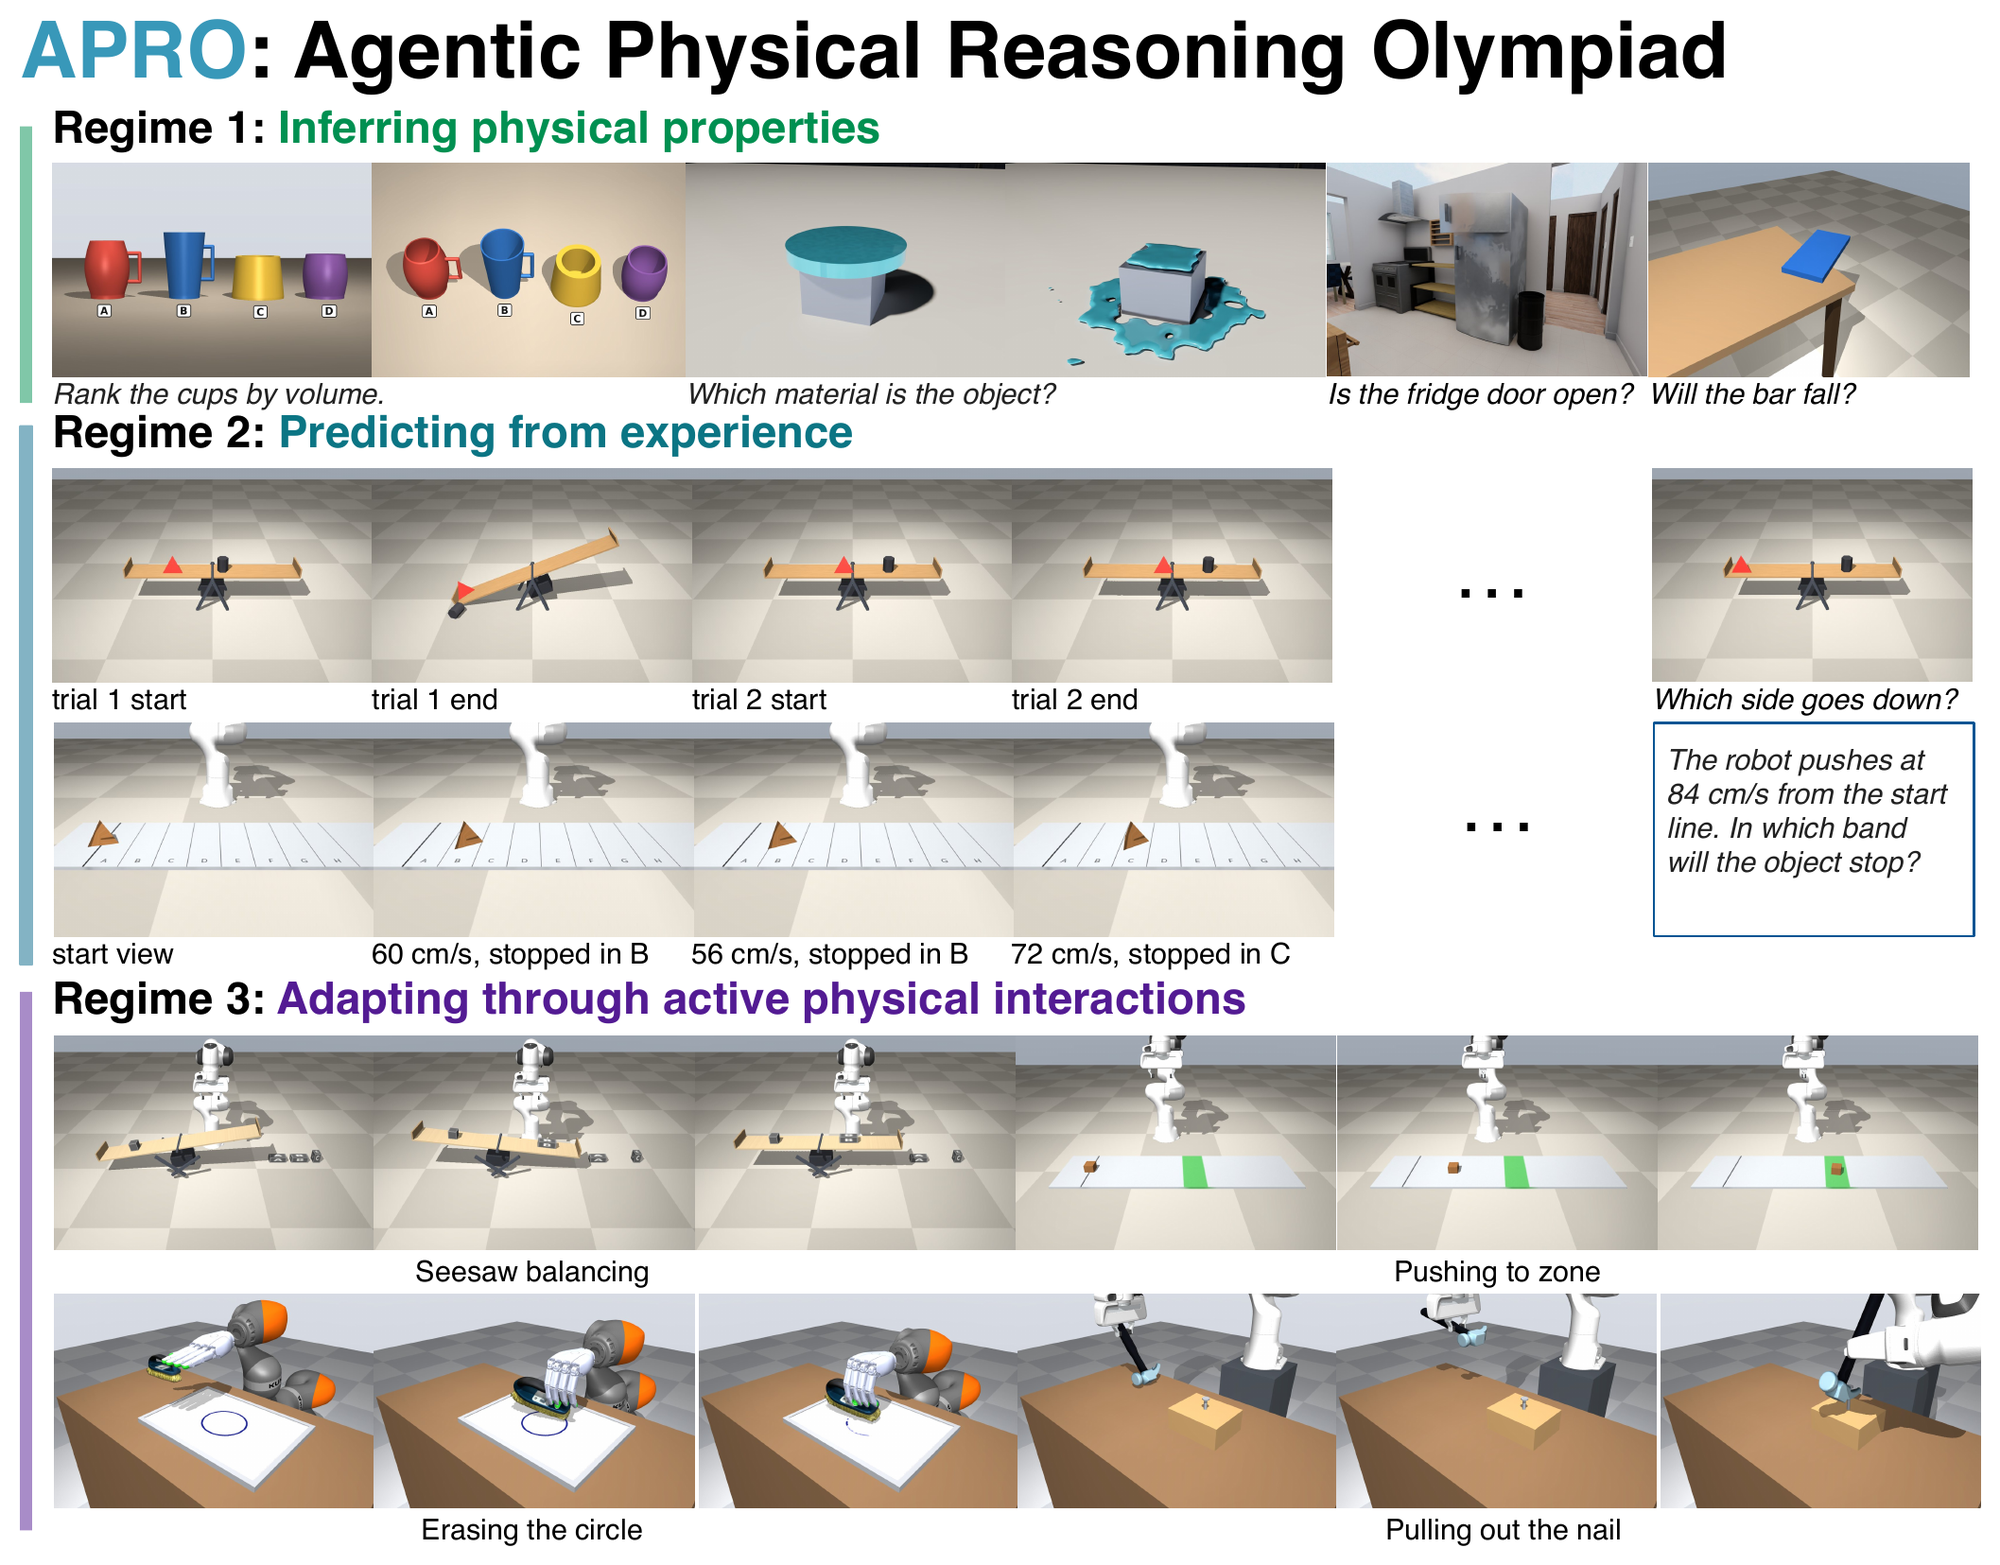
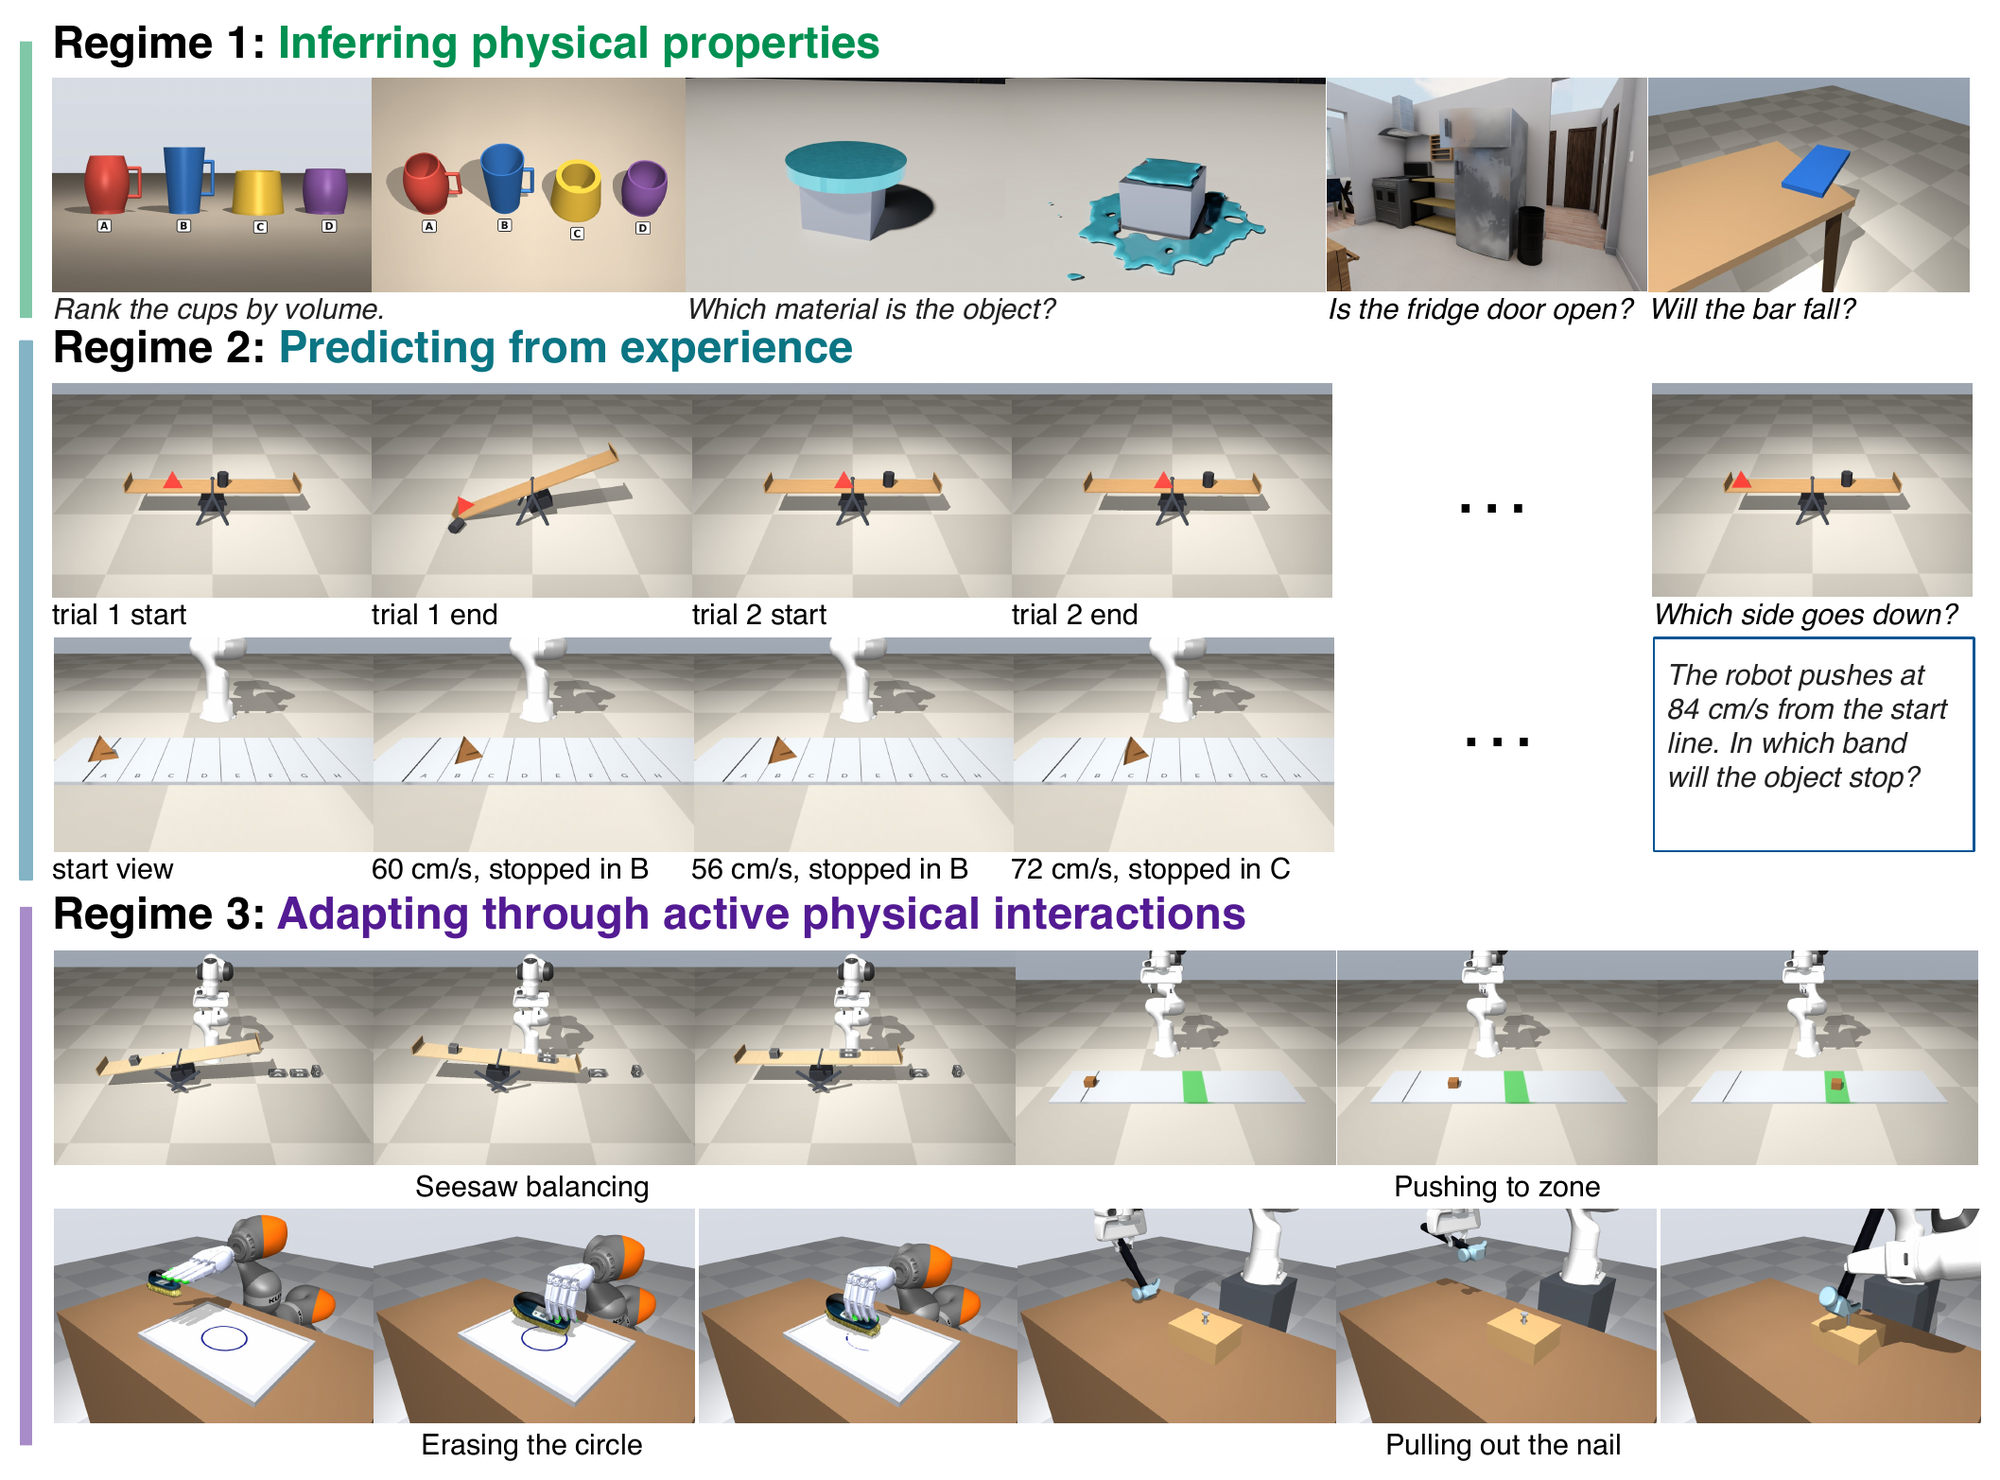
APRO post: drop title from dataset figure, move oracle rationale under Oracle settings

diff --git a/_posts/2026-11-23-apro.md b/_posts/2026-11-23-apro.md
@@ -34,15 +34,15 @@ images:
 
 ## Start of Agentic Robotics?
 
-My research has always played with Vision-Language Models (VLMs), and as I begin my PhD, I've been excited to see how much progress they have made. When I first met them, they were mostly used as visual assistants: understanding images, doing VQA tasks, or generating captions.
+My research has always played with Vision-Language Models (VLMs), when I first met them, they were just a simple "chat bot" as visual assistants: I would use to test image captioning, VQA skills or simply test if they understand images. And now begining my PhD, I'm very excited to see how much progress they have been made, where we have to call them real agents.
 
-Now, I see the advance of VLMs, where they can reason about physical environments, plan actions, and even execute them through robotics control. I've been seeing some exciting demos on Twitter that shows this progress. This excites me showing a new direction in robotics, where VLMs can serve as both high level planners and low-level executors.
+VLMs can now reason about physical environments, plan actions, and even execute them through robotics control. I've been recently seeing very exciting demos on Twitter that shows this progress. This excites me showing a new direction in robotics, where VLMs can serve as both high-level planners and low-level executors.
 
-But despite this excitement, there hasnt been studies yet that diagnostically studies on how useful VLMs are in controlling robots. Can these models infer physical properties from what they see? Can they learn from what happened in earlier attempts? And can they act, watch the result, and fix their actions?
+But despite this excitement, I havent met studies yet that diagnostically studies on how useful VLMs are in controlling robots. So I wanted to ask this question starting my first project in Berkeley: <it>Can these models infer physical properties from what they see? Can they learn from what happened in earlier attempts? And can they act, watch the result, and fix their actions?</it>
 
 ## Agentic Physical Reasoning
 
-In closed loop settings, VLMs choose and adjust actions based on feedback. Physical reasoning plays an important role here, where physical properties of the scene often determines the outcome of actions.
+In closed loop settings, VLMs choose and adjust actions based on feedback. In the physical world world, physical reasoning plays an important role here, where physical properties of the scene often determines the outcome of actions.
 
 Look at the two videos below, where the two robots are given the same task "Use a hammer to pull out a nail". Both initially grasp the hammer in a way that causes it to tilt, but the outcome differs on how they refine their answers. The success case shows that the model observes the instability and adjusts its grasp closer to the hammer head. The failure case on the other hand continues with the unstable grasp and eventually fails. We can obviously get the fact that understanding the physical world requires not only observation, but also actively acquiring physical information and using it to guide our actions.
 
@@ -58,18 +58,49 @@ Look at the two videos below, where the two robots are given the same task "Use 
 </div>
 <div class="caption">"Pull the nail out with a hammer"</div>
 
-To study this, with my team, we carefully created three evaluation regimes to test this, generated data in simulation for a controlled setting, and conducted a fine-grained evaluation and analysis to disentagle how useful VLMs are in controling robots as agents in the physical world.
+To study this, we carefully created (1) three evaluation regimes to test this,(2) generated data in simulation for a controlled setting (APRO dataset), and (3)conducted a fine-grained evaluation and analysis (Oracle settings) to disentagle how useful VLMs are in controling robots as agents in the physical world.
 
-### Measuring agentic phsyical reasoning under three evaluation regimes
+## Measuring agentic phsyical reasoning under three evaluation regimes
 
 <a href="{{ '/assets/img/blog/apro/fig1_regimes.svg' | relative_url }}" target="_blank" title="Open full size"><img class="regime-fig" src="{{ '/assets/img/blog/apro/fig1_regimes.svg' | relative_url }}" alt="Three evaluation regimes of APRO"></a>
 <div class="caption">Three Evaluation Regimes for APRO.</div>
 
-### APRO Dataset
-APRO(Agentic Physical Reasoning Olympiad) is a simulation grounded dataset organized under the three evaluation regimes mentioned above. 
+The simplest way to understand physical perception to action, we question
+- R1: Can the model understand and predict physics?
+- R2: Can the model learn from previous observations?
+- R3: Can the model actively interact with the physical world and accomplish a task?
+The three regimes represent increasing levels of interaction and agency.
+
+## APRO Dataset
+We generated a dataset, APRO(Agentic Physical Reasoning Olympiad), simulator grounded, we organized the tasks under the three evaluation regimes mentioned above. 
 
 <a href="{{ '/assets/img/blog/apro/dataset.png' | relative_url }}" target="_blank" title="Open full size"><img class="dataset-fig" src="{{ '/assets/img/blog/apro/dataset.png' | relative_url }}" alt="Examples of APRO tasks in the three regimes"></a>
 <div class="caption">Examples of APRO dataset. APRO contains 480 evaluation items across 11 tasks.</div>
+
+### Oracle settings
+
+Why do models fail? Lack of information they got from the world? or is it because they cannot reason with it? 
+<div class="cards">
+  <div class="card-a">
+    <h4><i class="fa-solid fa-eye-slash"></i>Missing information</h4>
+    The property can't be seen or inferred from the image. Will providing them the true information fix this problem?
+  </div>
+  <div class="card-a">
+    <h4><i class="fa-solid fa-brain"></i>Limited reasoning</h4>
+    When you have the true value to solve a high level task, can you use that information during reasoning to improve?
+  </div>
+</div>
+
+<details class="setup">
+  <summary>In the real world we dont get parameter values?: We have sensors, we get to know why they fail</summary>
+  Consider a robot using a Sharpa hand with tactile sensors to manipulate an object. As the robot touches and grasps the object, its sensors continuously provide information about contact, force, pressure. Given these parameter signals from the sensors, can robots use this information well to manipulate correctly during action?
+  
+  Here is one more example: In autonomous driving, when a car approaches another vehicle, its sensors provide information such as the distance to the front car, the speed of both vehicles, and their relative velocity. These physical values are critical for deciding whether the car should accelerate, slow down, or maintain its speed. As the environment changes, the vehicle continuously receives updated information and adjusts its actions accordingly.
+</details>
+
+
+To tell these apart, we run an **oracle analysis**: we give the model the true values from the simulator, one group at a time, and check what changes.
+
 
 <details class="setup">
   <summary>APRO Dataset task details</summary>
@@ -91,11 +122,11 @@ APRO(Agentic Physical Reasoning Olympiad) is a simulation grounded dataset organ
   </table>
 </details>
 
-With APRO, we evaluated 7 models (4 properity models, and 3 open-weight models).
+With APRO, we evaluated 7 models (4 properity models, and 3 open-weight models): Gemini 4 Argon, GPT-6 Sol, Gemini 3.8 Flash,Claude Opus 5.5, Qwen3.5-27B, Qwen3.5-9B, and DeepSeek-VL2 .
 
 <script src="{{ '/assets/js/apro-charts.js' | relative_url }}"></script>
 
-## Results at a glance
+## Results
 
 <div class="stat-row">
   <div class="stat"><div class="num">37.7 → 69.7%</div><div class="lbl">Cup capacity, images only → true values given (mean of 6 models)</div></div>
@@ -103,24 +134,6 @@ With APRO, we evaluated 7 models (4 properity models, and 3 open-weight models).
   <div class="stat"><div class="num">6 → 0 / 10</div><div class="lbl">GPT-6 Sol tool tasks, high-level skills → raw joint control</div></div>
   <div class="stat"><div class="num">15–26%</div><div class="lbl">Attempts after a failure that actually make progress</div></div>
 </div>
-
-A model can fail for two reasons. It may not see the property that matters. Or it may see it, but not reason with it. To tell these apart, we run an **oracle analysis**: we give the model the true values from the simulator, one group at a time, and check what changes.
-
-<div class="cards">
-  <div class="card-a">
-    <h4><i class="fa-solid fa-eye-slash"></i>Missing information</h4>
-    The property can't be seen or inferred from the image. Giving the true value fixes the answer.
-  </div>
-  <div class="card-a">
-    <h4><i class="fa-solid fa-brain"></i>Limited reasoning</h4>
-    The model still fails with the true value in hand. The problem is using the information, not getting it.
-  </div>
-</div>
-
-<details class="setup">
-  <summary>Why give models the true values?</summary>
-  Real robots get such values from sensors. A hand with tactile sensors feels contact, force and slip, and loosens or tightens its grip. A car measures the distance and speed of the car ahead, and decides to brake or accelerate. If a VLM can't use these values when they are handed over, more sensors won't help it.
-</details>
 
 <span class="part-kicker">Part 1 · Physical Understanding</span>
 
